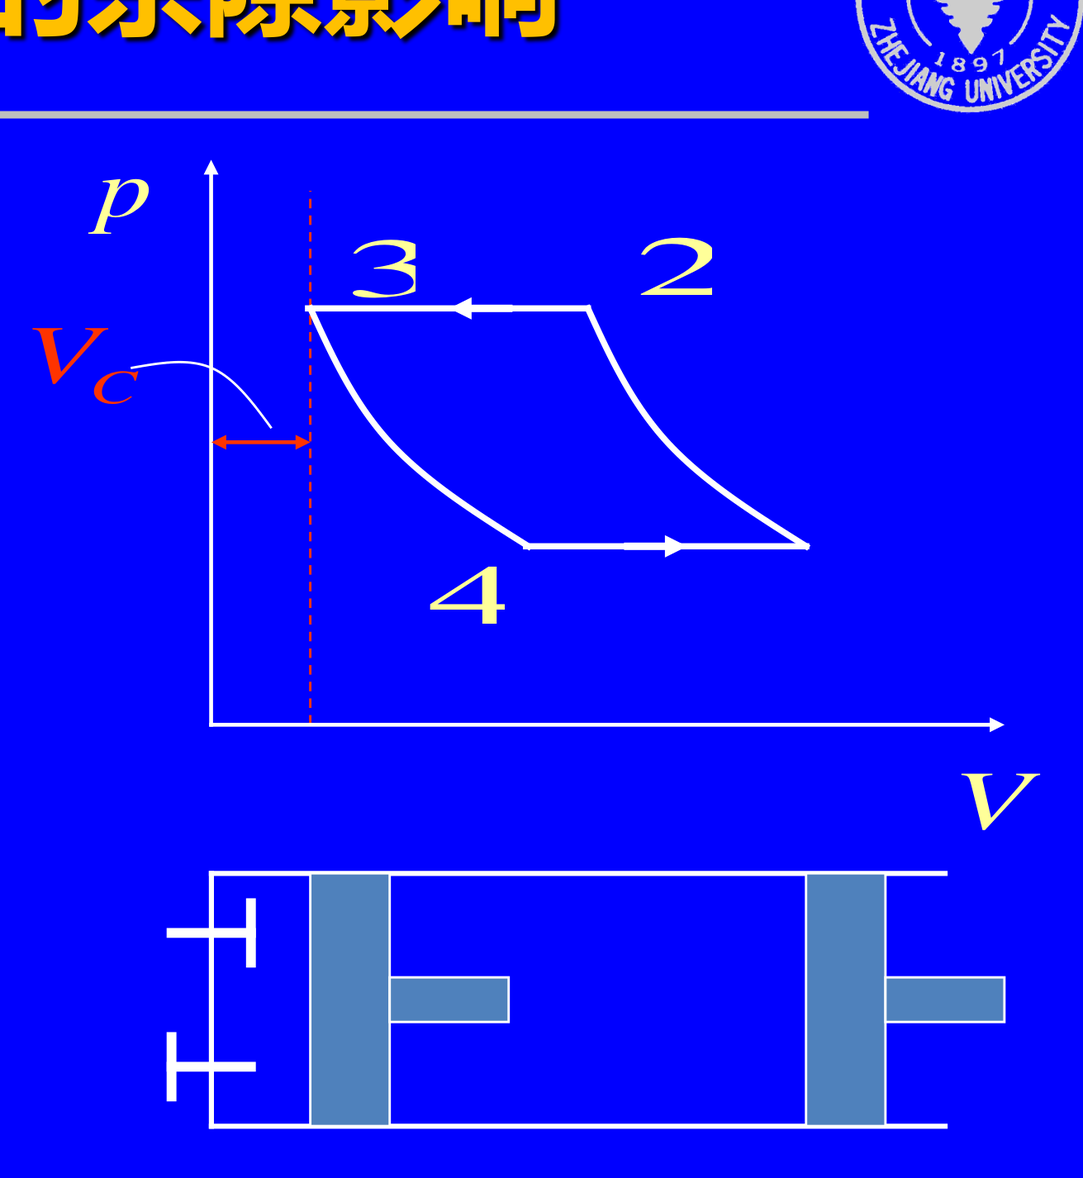
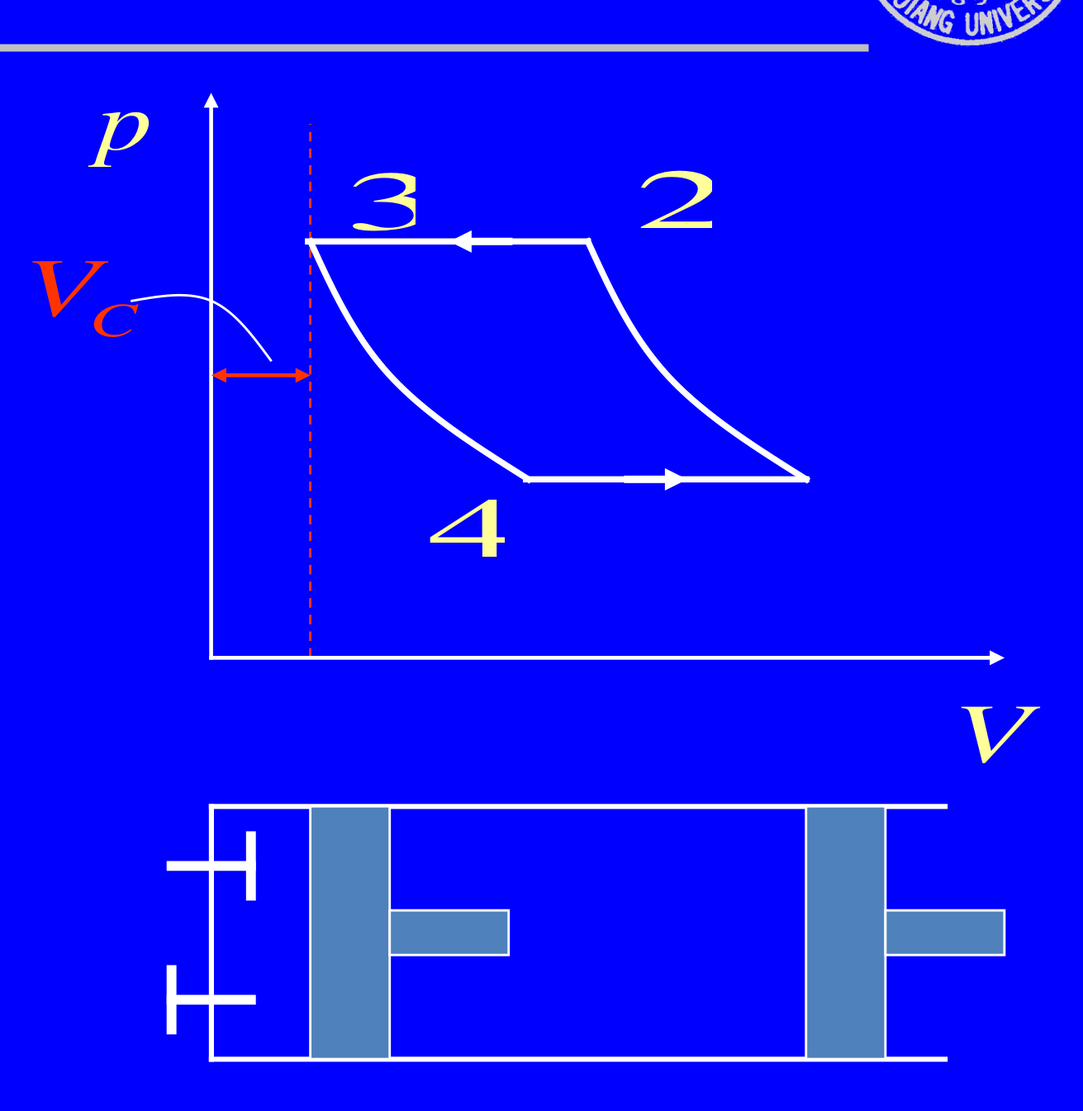
fix(render): 修复公式渲染裸$问题 + 图注改纯文本
块级$$...$$缺空行被误判为行内致裸$残留，给所有单行块级公式补前后空行（热力学39处/ode 3处）；15条figcaption内$...$改纯文本；重裁余隙容积图去标题

diff --git a/docs/major/foundation/thermodynamics/index.md b/docs/major/foundation/thermodynamics/index.md
@@ -575,7 +575,7 @@ $$\eta_C = 1 - \frac{T_2}{T_1}$$
 
 <figure markdown="span">
   ![卡诺定理的反证法](imgs/03-carnot-theorem.png){ width="62%" }
-  <figcaption>卡诺定理一的反证：设任意热机 E 的效率高于可逆热机 R，用 E 的部分功 $W_r$ 驱动 R 反转制冷，则可在不消耗外功的情况下把热量从低温热源搬向高温热源——构成第二类永动机，与第二定律矛盾，故 $\eta_E \le \eta_R$（图源：课程课件）</figcaption>
+  <figcaption>卡诺定理一的反证：设任意热机 E 的效率高于可逆热机 R，用 E 的部分功 Wr 驱动 R 反转制冷，则可在不消耗外功的情况下把热量从低温热源搬向高温热源——构成第二类永动机，与第二定律矛盾，故 η_E ≤ η_R（图源：课程课件）</figcaption>
 </figure>
 
 ### 制冷循环与热泵
@@ -592,7 +592,7 @@ $$\varepsilon' = \frac{q_1}{w} = \frac{T_1}{T_1 - T_2} = \varepsilon + 1$$
 
 <figure markdown="span">
   ![逆卡诺循环与性能系数](imgs/03-reverse-carnot.png){ width="88%" }
-  <figcaption>逆卡诺循环（制冷/热泵）：消耗净功 $W=Q_1-Q_2$，从低温热源 $T_2$ 取热 $Q_2$、向高温热源 $T_1$ 放热 $Q_1$。制冷系数 $\varepsilon=T_2/(T_1-T_2)$、供暖系数 $\varepsilon'=T_1/(T_1-T_2)$，统称性能系数 COP（图源：课程课件）</figcaption>
+  <figcaption>逆卡诺循环（制冷/热泵）：消耗净功 W = Q₁−Q₂，从低温热源 T₂ 取热 Q₂、向高温热源 T₁ 放热 Q₁。制冷系数 ε = T₂/(T₁−T₂)、供暖系数 ε′ = T₁/(T₁−T₂)，统称性能系数 COP（图源：课程课件）</figcaption>
 </figure>
 
 ### 克劳修斯不等式
@@ -624,7 +624,7 @@ $$S_2 - S_1 = \int_1^2 \frac{\delta Q}{T}$$
 
 <figure markdown="span">
   ![T-s 图（示热图）](imgs/03-ts-diagram.png){ width="42%" }
-  <figcaption>T-s 图（示热图）：由 $\delta Q = T\,\mathrm{d}s$，过程曲线下的面积即可逆过程交换的热量。从 1 出发，$\mathrm{d}s>0$（1→2）为吸热、$\mathrm{d}s=0$（1→2′）为绝热、$\mathrm{d}s<0$（1→2″）为放热（图源：课程课件）</figcaption>
+  <figcaption>T-s 图（示热图）：由 δQ = T·ds，过程曲线下的面积即可逆过程交换的热量。从 1 出发，ds>0（1→2）为吸热、ds=0（1→2′）为绝热、ds<0（1→2″）为放热（图源：课程课件）</figcaption>
 </figure>
 
 ### 不可逆过程与熵产
@@ -642,6 +642,7 @@ $$\mathrm{d}S = \frac{\delta Q}{T} + \delta S_g$$
 - $\delta S_g \geq 0$：由不可逆因素（摩擦、温差传热等）产生的**熵产**
 
 !!! definition "熵产的性质"
+
     $$\delta S_g \begin{cases} = 0 & \text{可逆过程} \\ > 0 & \text{不可逆过程} \end{cases}$$
     
     熵产永远非负，且不可逆程度越高，熵产越大。熵产是衡量过程不可逆性的量度。
@@ -701,7 +702,9 @@ $$s_2 - s_1 = \int \frac{\delta q}{T_b} + s_g \quad (s_g \geq 0)$$
 
 !!! definition "㶲（exergy）与火无（anergy）"
     在给定环境（$T_0, p_0$）下，能量中**理论上可转化为有用功的最大部分**称为**㶲**（有效能 $E_x$）；其余**无法转化为功**的部分称为**火无**（anergy，无效能 $A_n$）。两者之和为能量本身：
+
     $$\text{能量} = E_x + A_n$$
+
     环境是㶲的基准，**环境的㶲为零**。㶲把"能量的量"与"能量的质"统一了起来。
 
 #### 热量㶲
@@ -729,12 +732,14 @@ $$
 
 !!! key-point "Gouy–Stodola 定理：㶲损 = 熵产 × 环境温度"
     一切不可逆过程都会**损失做功能力**，称为**㶲损** $I$。它与熵产 $S_g$ 直接成正比：
+
     $$I = T_0\, S_g \geq 0$$
+
     可逆过程 $S_g = 0$ 故 $I = 0$。**㶲损只取决于熵产**——而熵是状态量、易计算，功是过程量、难计算，所以求㶲损通常先求 $S_g$ 再乘 $T_0$，比直接做㶲平衡更简便。
 
 <figure markdown="span">
   ![㶲损失的两种计算途径](imgs/03-exergy-loss.png){ width="90%" }
-  <figcaption>㶲损失的求解：一是建立㶲平衡方程（追踪伴随热/功/质量传递的㶲量），二是先求熵产 $S_g$（查表、构建可逆过程或用孤立系熵增原理）再由 $I=T_0 S_g$ 算得——后者通常更简便（图源：课程课件）</figcaption>
+  <figcaption>㶲损失的求解：一是建立㶲平衡方程（追踪伴随热/功/质量传递的㶲量），二是先求熵产 Sg（查表、构建可逆过程或用孤立系熵增原理）再由 I = T₀·Sg 算得——后者通常更简便（图源：课程课件）</figcaption>
 </figure>
 
 **㶲平衡方程**：
@@ -1305,12 +1310,14 @@ u &= u' + x(u'' - u')
 描述相平衡线（如汽化曲线）上饱和压力随饱和温度的变化率：
 
 !!! definition "克劳修斯-克拉贝龙方程"
+
     $$\frac{\mathrm{d}p_s}{\mathrm{d}T} = \frac{h'' - h'}{T(v'' - v')} = \frac{r}{T(v'' - v')}$$
 
     式中 $r$ 为相变潜热，$v''-v'$ 为相变比体积差。它由相平衡条件（两相吉布斯函数相等 $\mathrm{d}g' = \mathrm{d}g''$）直接导出，对汽化、熔化、升华均适用。斜率一般为正，**水是例外**（冰熔化时体积缩小，熔化线斜率为负）。
 
 !!! note "化学势与相平衡条件"
     单元系的**化学势** $\mu$ 等于其**比吉布斯函数** $g$（$\mu = g$）。如同温差驱动传热，化学势差驱动物质在相间转移。两相平衡共存的条件是二者**温度相同、压力相同、化学势相同**：
+
     $$T' = T'', \quad p' = p'', \quad \mu' = \mu''$$
 
 在低压下气相比体积远大于液相（$v'' \gg v'$），并对气相用理想气体方程，可将克劳修斯-克拉贝龙方程积分得到**蒸气压方程**：
@@ -1322,6 +1329,7 @@ $$\ln\frac{p_{s,2}}{p_{s,1}} = \frac{r}{R_g}\left(\frac{1}{T_{s,1}} - \frac{1}{T
 ### 吉布斯相律与平衡判据
 
 !!! key-point "吉布斯相律"
+
     $$F = C - P + 2$$
 
     $F$ 为自由度（可独立变化的强度量数），$C$ 为组分数，$P$ 为相数。对纯物质（$C=1$）：单相 $F=2$（需两参数定态）、两相 $F=1$（定压即定温）、三相点 $F=0$（状态唯一）。
@@ -1407,9 +1415,11 @@ $$\ln\frac{p_{s,2}}{p_{s,1}} = \frac{r}{R_g}\left(\frac{1}{T_{s,1}} - \frac{1}{T
 
 !!! definition "道尔顿分压定律 / 亚美格分体积定律"
     **分压定律**：混合物总压等于各组分单独占据总体积时的分压之和
+
     $$p = \sum p_i, \qquad p_i = x_i\, p$$
 
     **分体积定律**：总体积等于各组分单独处于总压、总温时的分体积之和
+
     $$V = \sum V_i, \qquad V_i = x_i\, V$$
 
 #### 折合摩尔质量与折合气体常数
@@ -1438,12 +1448,16 @@ $$R_g = \frac{R}{M} = \sum g_i R_{g,i}$$
 
 !!! definition "相对湿度 $\varphi$"
     水蒸气实际分压与同温度下饱和压力之比：
+
     $$\varphi = \frac{p_v}{p_s(t)} \times 100\%$$
+
     $\varphi$ 反映空气的**潮湿程度**（吸湿能力）：$\varphi = 0$ 为干空气，$\varphi = 100\%$ 为饱和。
 
 !!! definition "含湿量 $d$"
     每千克**干空气**所携带的水蒸气质量（基准是干空气，因为过程中干空气量不变）：
+
     $$d = 0.622\,\frac{p_v}{p - p_v} \quad (\text{kg 水汽/kg 干空气})$$
+
     其中 $0.622 = R_{g,a}/R_{g,v} = M_v/M_a = 18/29$。
 
 #### 湿空气的焓
@@ -1466,7 +1480,7 @@ $$h = \underbrace{1.005\, t}_{\text{干空气}} + \underbrace{d(2501 + 1.86\, t)
 
 <figure markdown="span">
   ![露点、湿球与绝热饱和温度在 p-v、T-s 图上的表示](imgs/07-humid-air-temps.png){ width="90%" }
-  <figcaption>从未饱和状态 1 出发的三条路径：定压降温到含湿量不变的露点 d（$T_d$）、绝热增湿到饱和的湿球 w（$T_w$）、定温到饱和 s；图上直观显示 $T_d < T_w < T$（图源：课程课件）</figcaption>
+  <figcaption>从未饱和状态 1 出发的三条路径：定压降温到含湿量不变的露点 d（T_d）、绝热增湿到饱和的湿球 w（T_w）、定温到饱和 s；图上直观显示 T_d < T_w < T（图源：课程课件）</figcaption>
 </figure>
 
 #### 焓湿图（h-d 图）
@@ -1475,7 +1489,7 @@ $$h = \underbrace{1.005\, t}_{\text{干空气}} + \underbrace{d(2501 + 1.86\, t)
 
 <figure markdown="span">
   ![焓湿图（h-d 图）的线簇结构](imgs/07-hd-chart.png){ width="58%" }
-  <figcaption>焓湿图结构：坐标轴成 135° 斜置以拉开两相区，图上绘有定含湿量线（竖直 $d$ 线，即定 $p_v$ 线）、定焓线、定温线与定相对湿度线（$\varphi=100\%$ 为饱和线）（图源：课程课件）</figcaption>
+  <figcaption>焓湿图结构：坐标轴成 135° 斜置以拉开两相区，图上绘有定含湿量线（竖直 d 线，即定 p_v 线）、定焓线、定温线与定相对湿度线（φ=100% 为饱和线）（图源：课程课件）</figcaption>
 </figure>
 
 ??? example "例题 7-1：混合气体的折合参数与分压"
@@ -1598,7 +1612,9 @@ $$h = \underbrace{1.005\, t}_{\text{干空气}} + \underbrace{d(2501 + 1.86\, t)
 实际过程往往既非绝热也非定温，可用**多变过程**统一描述：
 
 !!! definition "多变过程"
+
     $$pv^n = \text{const}$$
+
     其中 $n$ 为**多变指数**（常数）。四个基本过程都是它的特例：
 
     | $n$ | 过程 | 方程 |
@@ -1715,9 +1731,13 @@ $$c_2 = \sqrt{2(h_1 - h_2) + c_1^2}$$
 
 !!! definition "声速与马赫数"
     微弱扰动在工质中的传播速度（声速）：
+
     $$a = \sqrt{\gamma R_g T} = \sqrt{\gamma p v}$$
+
     流速与当地声速之比为**马赫数**：
+
     $$Ma = \frac{c}{a}$$
+
     $Ma < 1$ 为亚声速，$Ma = 1$ 为声速（临界），$Ma > 1$ 为超声速。
 
 ### 喷管形状与流动方向
@@ -1735,7 +1755,7 @@ $$\frac{\mathrm{d}A}{A} = (Ma^2 - 1)\,\frac{\mathrm{d}c}{c}$$
 
 <figure markdown="span">
   ![喷管与扩压管的形状与流态](imgs/09-nozzle-shapes.png){ width="92%" }
-  <figcaption>喷管（降压增速 $\mathrm{d}c>0,\mathrm{d}p<0$）与扩压管（增压减速）在亚声速 $Ma<1$、超声速 $Ma>1$ 下的形状由 $\mathrm{d}A/A=(Ma^2-1)\mathrm{d}c/c$ 决定；亚声速加速到超声速须用先缩后扩的缩放（拉伐尔）喷管，喉部 $Ma=1$（图源：课程课件）</figcaption>
+  <figcaption>喷管（降压增速 dc>0、dp<0）与扩压管（增压减速）在亚声速 Ma<1、超声速 Ma>1 下的形状由 dA/A=(Ma²−1)·dc/c 决定；亚声速加速到超声速须用先缩后扩的缩放（拉伐尔）喷管，喉部 Ma=1（图源：课程课件）</figcaption>
 </figure>
 
 ### 临界压力比
@@ -1775,7 +1795,7 @@ $$\varphi = \frac{c_{2,\text{实际}}}{c_{2,\text{理想}}}\ (\text{速度系数
 
 <figure markdown="span">
   ![有摩擦绝热流动的 h-s 图](imgs/09-friction-hs.png){ width="48%" }
-  <figcaption>有摩擦的绝热流动在 h-s 图上：理想等熵膨胀 $1^*\to 2$，实际因摩擦熵增沿 $1^*\to 2'$（$2'$ 在 $2$ 右侧、同一背压线 $p_2$ 上），实际焓降 $h^*-h_{2'}$ 小于理想焓降，出口流速随之降低（图源：课程课件）</figcaption>
+  <figcaption>有摩擦的绝热流动在 h-s 图上：理想等熵膨胀 1*→2，实际因摩擦熵增沿 1*→2′（2′ 在 2 右侧、同一背压线 p₂ 上），实际焓降 h*−h₂′ 小于理想焓降，出口流速随之降低（图源：课程课件）</figcaption>
 </figure>
 
 !!! warning "水蒸气在喷管中的流动"
@@ -1789,7 +1809,7 @@ $$h_1 = h_2$$
 
 <figure markdown="span">
   ![绝热节流（焦耳-汤姆逊实验）](imgs/09-throttle.png){ width="50%" }
-  <figcaption>绝热节流：流体流经多孔塞/缩孔等局部阻力，上下游测得 $p_1,T_1$ 与 $p_2,T_2$。这正是焦耳-汤姆逊实验装置，由 $T$、$p$ 的变化测定节流系数 $\mu_J$（图源：课程课件）</figcaption>
+  <figcaption>绝热节流：流体流经多孔塞/缩孔等局部阻力，上下游测得 p₁、T₁ 与 p₂、T₂。这正是焦耳-汤姆逊实验装置，由 T、p 的变化测定节流系数 μ_J（图源：课程课件）</figcaption>
 </figure>
 
 !!! note "节流的特征"
@@ -1867,17 +1887,19 @@ $$
 
 <figure markdown="span">
   ![活塞式压气机的示功图](imgs/10-piston-indicator.png){ width="56%" }
-  <figcaption>活塞式压气机示功图：1→2 压缩、2→3 排气、3→0 吸气，理论耗功（技术功）为 $w_t=\int v\,\mathrm{d}p$，对应 p-v 图上紧贴 $p$ 轴的 $V\mathrm{d}p$ 阴影面积（图源：课程课件）</figcaption>
+  <figcaption>活塞式压气机示功图：1→2 压缩、2→3 排气、3→0 吸气，理论耗功（技术功）为 wt = ∫v·dp，对应 p-v 图上紧贴 p 轴的 V·dp 阴影面积（图源：课程课件）</figcaption>
 </figure>
 
 !!! key-point "定温压缩最省功"
     在相同增压比下，三种过程耗功大小为：
+
     $$w_{C,T} < w_{C,n} < w_{C,s} \quad (1 < n < \gamma)$$
+
     在 $p$-$v$ 图上，定温线最靠左、所围"压缩功"面积最小。因此实际压气机都设法**冷却气缸**，使压缩过程尽量接近定温，同时降低排气温度。
 
 <figure markdown="span">
   ![三种压缩过程在 p-v、T-s 图上的比较](imgs/10-three-process.png){ width="92%" }
-  <figcaption>三种压缩过程比较：同一增压比下，定温 $2_T$（绿）、多变 $2_n$（红）、绝热 $2_s$（黄）。p-v 图上定温线最靠左、压缩功面积最小；T-s 图上绝热终温最高，故 $w_{C,T}<w_{C,n}<w_{C,s}$（图源：课程课件）</figcaption>
+  <figcaption>三种压缩过程比较：同一增压比下，定温 2ₜ（绿）、多变 2ₙ（红）、绝热 2ₛ（黄）。p-v 图上定温线最靠左、压缩功面积最小；T-s 图上绝热终温最高，故 w_C,T < w_C,n < w_C,s（图源：课程课件）</figcaption>
 </figure>
 
 ### 余隙容积与容积效率
@@ -1886,12 +1908,14 @@ $$
 
 !!! definition "容积效率 $\eta_V$"
     实际吸气容积与活塞行程容积之比：
+
     $$\eta_V = 1 - \sigma\left[\left(\frac{p_2}{p_1}\right)^{\frac{1}{n}} - 1\right]$$
+
     式中余隙比 $\sigma = V_c/V_s$（余隙容积/行程容积）。增压比 $p_2/p_1$ 越大，$\eta_V$ 越小——余隙的存在**限制了单级增压比**。
 
 <figure markdown="span">
   ![余隙容积对吸气过程的影响](imgs/10-clearance-volume.png){ width="58%" }
-  <figcaption>余隙容积 $V_c$：活塞到达上止点后留下的空间。排气终了 3 点残留的高压气体先膨胀到 4 点才开启进气阀，实际吸气量由 $V_1$ 缩小为 $V_1-V_4$，增压比越大膨胀越充分、容积效率越低（图源：课程课件）</figcaption>
+  <figcaption>余隙容积 Vc：活塞到达上止点后留下的空间。排气终了 3 点残留的高压气体先膨胀到 4 点才开启进气阀，实际吸气量由 V₁ 缩小为 V₁−V₄，增压比越大膨胀越充分、容积效率越低（图源：课程课件）</figcaption>
 </figure>
 
 ### 多级压缩中间冷却
@@ -1905,8 +1929,11 @@ $$
 
 !!! key-point "最佳增压比分配"
     总增压比 $\pi = p_{\text{终}}/p_{\text{初}}$ 分配给 $z$ 级时，使总耗功最小的条件是**各级增压比相等**：
+
     $$\frac{p_2}{p_1} = \frac{p_3}{p_2} = \cdots = \pi^{1/z}$$
+
     此时各级耗功相等。两级压缩的**最佳中间压力**为首末压力的几何平均：
+
     $$p_x = \sqrt{p_1\, p_3}$$
 
 中间冷却使每一级都接近定温，多级越多越逼近理想定温压缩，但设备复杂、成本升高，需折中。
@@ -2013,6 +2040,7 @@ $$\eta_t = \frac{w_{\text{net}}}{q_1} = \frac{(h_1 - h_2) - (h_4 - h_3)}{h_1 - h
 
 !!! tip "水泵功通常可忽略"
     液态水比体积很小，水泵功 $w_p$ 远小于汽轮机功，工程估算常忽略：
+
     $$\eta_t \approx \frac{h_1 - h_2}{h_1 - h_3}$$
 
 ### 提高朗肯循环效率的途径
@@ -2215,7 +2243,9 @@ $$\eta_t = 1 - \frac{1}{\varepsilon^{\gamma-1}}\cdot\frac{\lambda\rho^\gamma - 1
 </figure>
 
 !!! definition "布雷顿循环热效率"
+
     $$\eta_t = 1 - \frac{1}{\pi^{\frac{\gamma-1}{\gamma}}}, \qquad \pi = \frac{p_2}{p_1}\ (\text{增压比})$$
+
     效率随增压比 $\pi$ 增大而提高。燃气轮机连续运转、功率密度大，是航空发动机与联合循环电站的核心。
 
 除增压比外，再引入**增温比** $\tau = T_3/T_1$（循环最高温与最低温之比）。
@@ -2307,9 +2337,13 @@ $$\eta_{C,s} = \frac{w_{C,\text{理论}}}{w_{C,\text{实际}}}\ (\text{压气机
 
 !!! definition "制冷系数 $\varepsilon$ 与供热系数 $\varepsilon'$"
     制冷机以"从冷源取热 $q_2$"为目的：
+
     $$\varepsilon = \frac{q_2}{w_{\text{net}}}$$
+
     热泵以"向热源供热 $q_1$"为目的：
+
     $$\varepsilon' = \frac{q_1}{w_{\text{net}}} = \varepsilon + 1$$
+
     二者均可大于 1，这正是制冷/热泵节能的根源——搬运的热量远多于消耗的功。
 
 逆卡诺循环给出理论上限：
@@ -2455,6 +2489,7 @@ $$\varepsilon = \frac{q_2}{w} = \frac{h_1 - h_4}{h_2 - h_1}$$
     - **定压热效应**（恒压）：$Q_p = \Delta H$
 
     两者关系（理想气体，$\Delta n$ 为反应前后气体摩尔数之差）：
+
     $$Q_p = Q_V + \Delta n\, RT$$
 
 规定**放热反应** $\Delta H < 0$，吸热反应 $\Delta H > 0$。
@@ -2469,7 +2504,7 @@ $$\varepsilon = \frac{q_2}{w} = \frac{h_1 - h_4}{h_2 - h_1}$$
 
 <figure markdown="span">
   ![盖斯定律：反应热与途径无关](imgs/14-hess-law.png){ width="88%" }
-  <figcaption>盖斯定律：由 A 到 B，无论经 A→C→D→B 还是 A→E→B，热效应总和不变，即 $Q_1+Q_2+Q_3=Q_4+Q_5$；据此可由易测反应的反应热叠加推算难测反应的反应热（图源：课程课件）</figcaption>
+  <figcaption>盖斯定律：由 A 到 B，无论经 A→C→D→B 还是 A→E→B，热效应总和不变，即 Q₁+Q₂+Q₃ = Q₄+Q₅；据此可由易测反应的反应热叠加推算难测反应的反应热（图源：课程课件）</figcaption>
 </figure>
 
 借助**标准生成焓** $\Delta H_f^\circ$（由稳定单质生成 1 mol 化合物的焓变），任意反应的标准反应焓：
@@ -2478,7 +2513,9 @@ $$\Delta H_r^\circ = \sum_{\text{产物}} \nu_i\,\Delta H_{f,i}^\circ - \sum_{\t
 
 !!! note "基尔霍夫定律（Kirchhoff）"
     反应热随温度变化：
+
     $$\frac{\mathrm{d}(\Delta H_r)}{\mathrm{d}T} = \Delta C_p = \sum_{\text{产物}}\nu_i C_{p,i} - \sum_{\text{反应物}}\nu_j C_{p,j}$$
+
     用于把某温度下的反应热换算到另一温度。
 
 ### 理论燃烧温度（绝热燃烧温度）
@@ -2494,7 +2531,7 @@ $$H_{\text{产物}}(T_{ad}) = H_{\text{反应物}}(T_1)$$
 
 <figure markdown="span">
   ![绝热燃烧温度的焓-温图解](imgs/14-adiabatic-flame.png){ width="46%" }
-  <figcaption>绝热燃烧温度的焓-温图：反应物焓线与生成物焓线在初温 $T_0$ 处相差 $\Delta H^0$（反应热）；绝热定压时产物总焓等于反应物初态总焓，沿生成物线升温直至 $T_{ad}$（点 A），即理论燃烧温度（图源：课程课件）</figcaption>
+  <figcaption>绝热燃烧温度的焓-温图：反应物焓线与生成物焓线在初温 T₀ 处相差 ΔH⁰（反应热）；绝热定压时产物总焓等于反应物初态总焓，沿生成物线升温直至 T_ad（点 A），即理论燃烧温度（图源：课程课件）</figcaption>
 </figure>
 
 ### 反应方向与最大功
@@ -2503,7 +2540,7 @@ $$H_{\text{产物}}(T_{ad}) = H_{\text{反应物}}(T_1)$$
 
 <figure markdown="span">
   ![热力系平衡判据](imgs/14-equilibrium-criteria.png){ width="82%" }
-  <figcaption>热力系平衡判据：系统因各种势差自发变化，直到势差减小为零达到平衡。变化方向的判据同时也是平衡判据——孤立系用①平衡的熵判据，有约束时用②平衡的功势函数判据（$F$ 或 $G$）（图源：课程课件）</figcaption>
+  <figcaption>热力系平衡判据：系统因各种势差自发变化，直到势差减小为零达到平衡。变化方向的判据同时也是平衡判据——孤立系用①平衡的熵判据，有约束时用②平衡的功势函数判据（F 或 G）（图源：课程课件）</figcaption>
 </figure>
 
 !!! key-point "化学反应方向判据"
@@ -2536,7 +2573,9 @@ $$\frac{\mathrm{d}\ln K_p}{\mathrm{d}T} = \frac{\Delta H_r}{RT^2}$$
 
 !!! definition "热力学第三定律（奈斯特定理）"
     **奈斯特（Nernst）热定理**：凝聚系在可逆定温过程中的熵变，随热力学温度趋于零而趋于零（$\lim_{T\to 0}\Delta S = 0$）。普朗克进一步规定**绝对零度下完整晶体的熵为零**：
+
     $$\lim_{T\to 0} S = 0$$
+
     据此可确定物质的**绝对熵** $S^\circ$，从而计算化学反应熵变 $\Delta S_r^\circ = \sum\nu_i S_i^\circ$，进而由 $\Delta G = \Delta H - T\Delta S$ 判断反应方向。
 
 !!! key-point "绝对零度不可达"

diff --git a/MAINTENANCE_LOG.md b/MAINTENANCE_LOG.md
@@ -1,5 +1,22 @@
 # Maintenance Log
 
+## 2026-06-20 — 修复行内/块级公式渲染 bug（裸 $ 显示）+ 图注改纯文本
+
+Scope: `docs/major/foundation/thermodynamics/index.md`、`docs/math/ode/index.md`、`docs/major/foundation/thermodynamics/imgs/10-clearance-volume.png`
+
+Problem: 多处公式在页面上以源码 `$...$`／`$$...$$` 原样显示。两类根因：
+1. **块级公式被挤在文字行之间（缺空行）**：单行 `$$公式$$` 若上一行/下一行不是空行，pymdownx.arithmatex 的块级规则不触发，退而把里层 `$公式$` 当行内转换，外层一对 `$` 残留为裸美元符号（HTML 形如 `$<span class="arithmatex">\(…\)</span>$`）。两条相邻 `$$…$$`（中间无空行）同理被合并、中间留裸 `$$`（ode 页特征方程）。
+2. **图注里的行内 `$…$` 不被解析**：figcaption 是 `md_in_html` 的 raw HTML（`markdown="span"`），arithmatex 行内规则在该上下文不生效，`$…$` 原样输出。
+
+Fix:
+- 用脚本对 `docs/**/*.md` 中所有「单行 `$$…$$` 但前后缺空行」的块级公式自动补空行（热力学页 39 处、ode 页 3 处）。构建后全站 HTML 裸 `$` 归零（验证：`grep -rF '$<span class=\"arithmatex\"'` 与裸 `$` 计数均为 0），arithmatex span 数不变（1314）
+- 第 6/7 批新增的 15 条 figcaption 内的 `$…$` 改为纯文本/Unicode（如 W=Q₁−Q₂、ε=T₂/(T₁−T₂)、T_d<T_w<T、ΔH⁰、μ_J、2ₜ/2ₙ/2ₛ 等），与早期批次「图注用纯文本」的约定一致
+- 顺手修正 `10-clearance-volume.png` 顶部残留的幻灯片标题（y0 0.11→0.16 重裁）
+
+Note: 约定补充——**块级公式 `$$…$$` 前后必须留空行**（尤其在 admonition 缩进内容里）；**图注一律用纯文本，不写 `$…$`**
+
+Validation: `scripts/validate-mkdocs.ps1` 通过；全站 HTML 无裸 `$` 残留
+
 ## 2026-06-20 — 工程热力学：第三、九章配入原理图（课件配图·第7批，PPTX 章节）
 
 Scope: `docs/major/foundation/thermodynamics/index.md`、`docs/major/foundation/thermodynamics/imgs/`

diff --git a/docs/math/ode/index.md b/docs/math/ode/index.md
@@ -501,6 +501,7 @@ $$y^{(n)} + a_1 y^{(n-1)} + \cdots + a_{n-1} y' + a_n y = 0$$
 - 一对共轭复根 $\alpha \pm \mathrm{i}\beta$（$k$ 重）：
 
 $$e^{\alpha x}\cos\beta x,\; x e^{\alpha x}\cos\beta x,\; \dots,\; x^{k-1}e^{\alpha x}\cos\beta x$$
+
 $$e^{\alpha x}\sin\beta x,\; x e^{\alpha x}\sin\beta x,\; \dots,\; x^{k-1}e^{\alpha x}\sin\beta x$$
 
 通解为所有基础解的线性组合。
@@ -1010,6 +1011,7 @@ $$\mathbf{x}^{(i)}(t) = e^{\lambda_i t}\sum_{j=0}^{k-1}\frac{t^{j}}{j!}\,\mathbf
 $$e^{\alpha t}(\mathbf{p}\cos\beta t - \mathbf{q}\sin\beta t),\quad e^{\alpha t}(\mathbf{p}\sin\beta t + \mathbf{q}\cos\beta t)$$
 
 !!! example "例题 (23-24 夏)"
+
     $$\begin{cases} \dfrac{\mathrm{d}x}{\mathrm{d}t} = 3x + 2y + 2z \\[2pt] \dfrac{\mathrm{d}y}{\mathrm{d}t} = -5x - 4y - 2z \\[2pt] \dfrac{\mathrm{d}z}{\mathrm{d}t} = 5x + 5y + 3z \end{cases}$$
 
     **① 写出矩阵并求特征值。**
@@ -1047,6 +1049,7 @@ $$X(t)\,\mathbf{c}'(t) = \mathbf{f}(t) \;\Rightarrow\; \mathbf{c}(t) = \int X^{-
 通解：$\mathbf{x} = X(t)\,\mathbf{c}(t)$。
 
 !!! example "例题 (23-24 夏)"
+
     $$\begin{cases} \dfrac{\mathrm{d}x}{\mathrm{d}t} = 2x + y \\[2pt] \dfrac{\mathrm{d}y}{\mathrm{d}t} = x + 2y - 2e^{2t} \end{cases},\qquad x(0)=1,\; y(0)=1$$
 
     **① 求齐次基本解矩阵 $X$。** 系数矩阵 $A = \begin{pmatrix} 2 & 1 \\ 1 & 2 \end{pmatrix}$，特征值 $\lambda_1 = 3,\, \lambda_2 = 1$，对应特征向量
